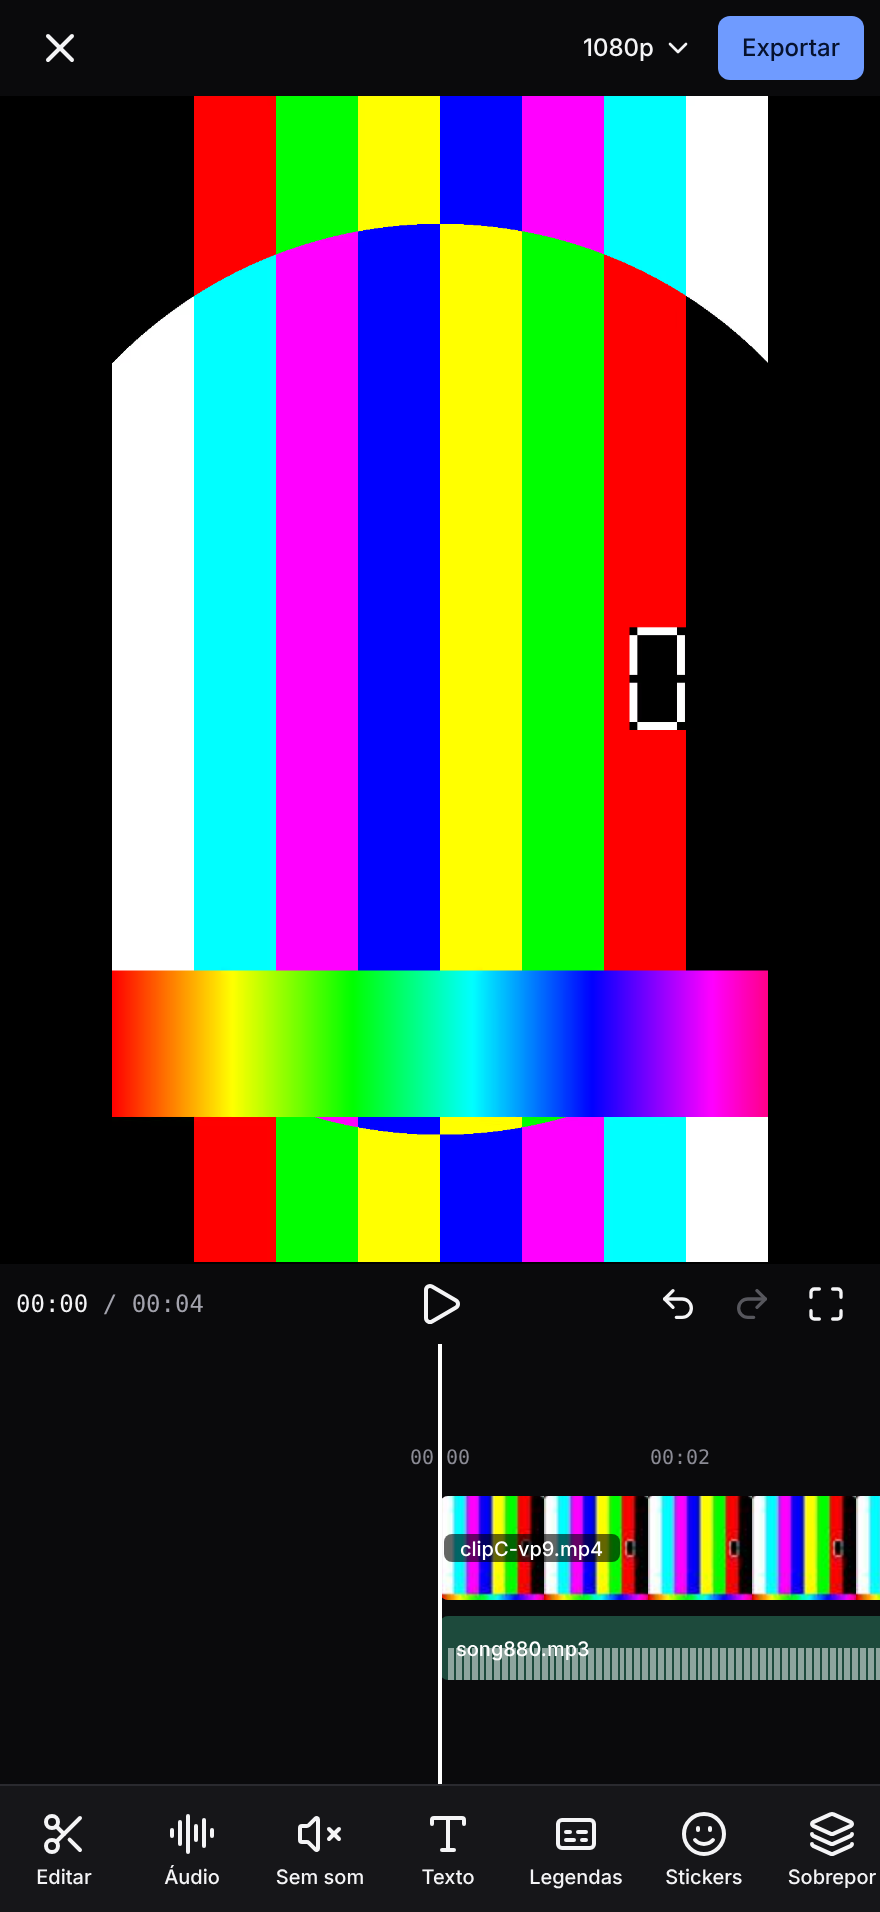
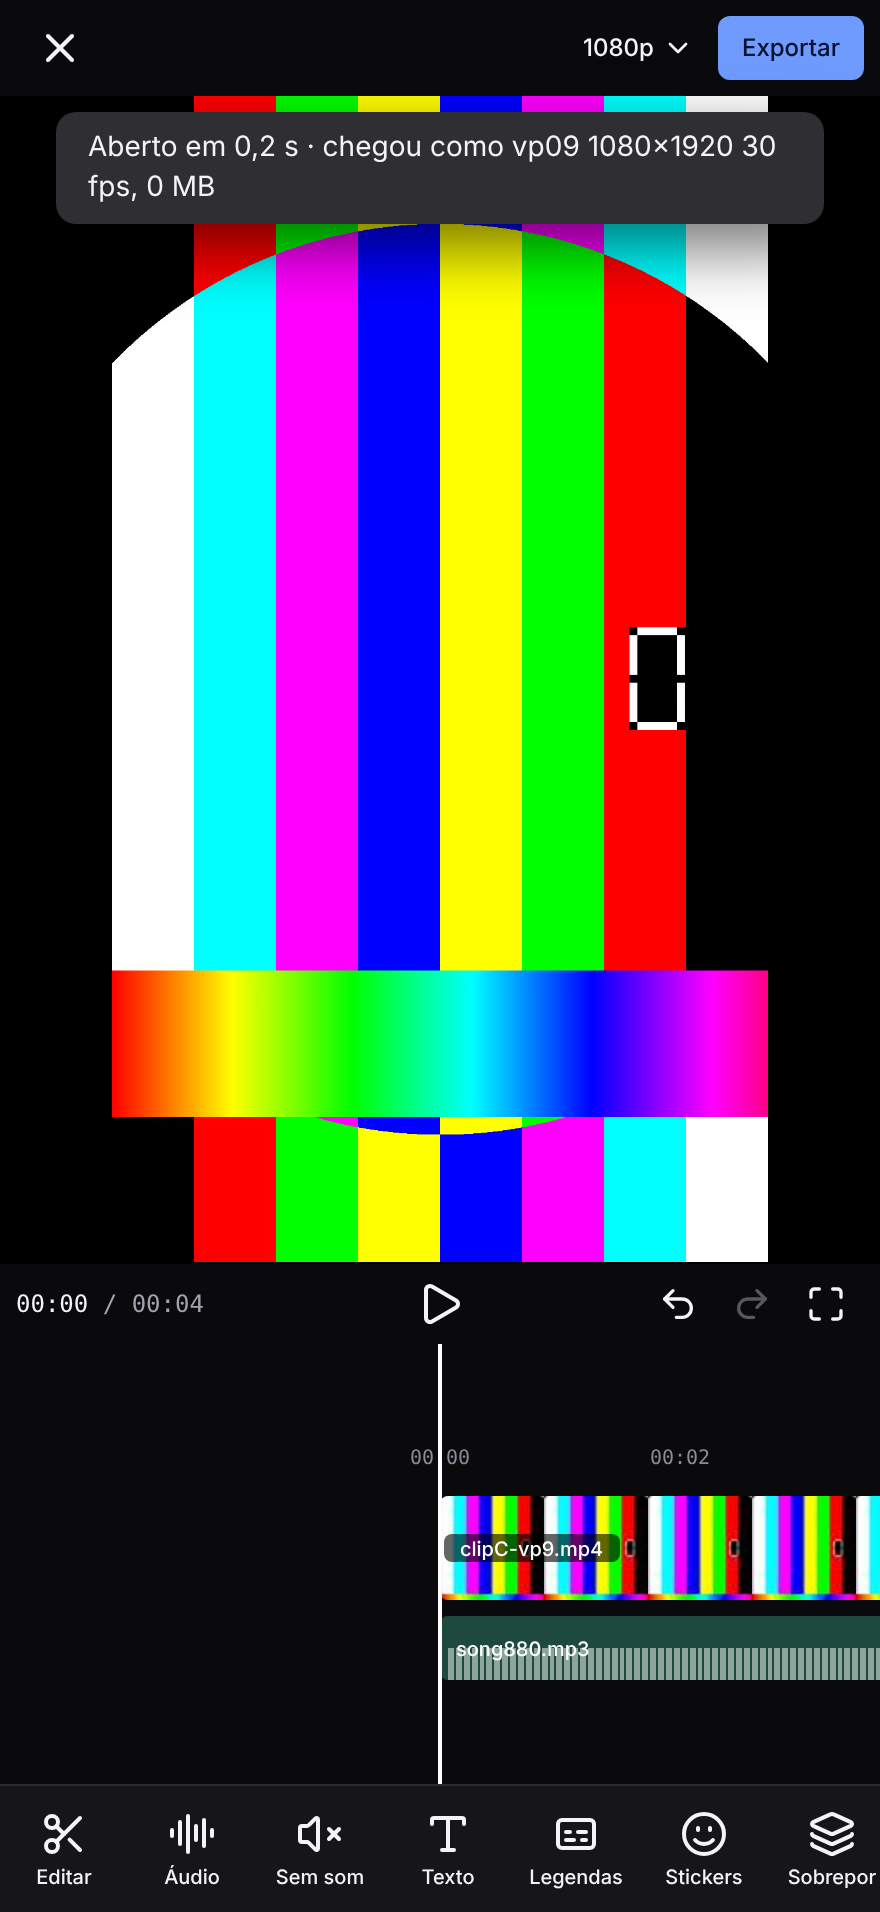
Fix black preview when reopening a saved project on iPhone
Files read back from OPFS had no type, so their blob URLs had an empty
content type, which Safari will not play. They now get the type they
were imported with. A video that fails to load shows a message on the
preview instead of a silent black frame.

Claude-Session: https://claude.ai/code/session_0171u1mNBnwSWvSmcMh16wpa

Changed region(s): [[0.0614, 0.0309, 0.9511, 0.1543]]

diff --git a/app/src/editor/player.ts b/app/src/editor/player.ts
@@ -49,6 +49,8 @@ export class Player {
     audio.attachVideo(video);
     video.addEventListener("seeked", this.onSeeked);
     video.addEventListener("loadedmetadata", this.onMeta);
+    video.addEventListener("error", this.onVideoError);
+    video.addEventListener("loadeddata", this.onVideoOk);
   }
 
   dispose() {
@@ -57,6 +59,8 @@ export class Player {
     this.release();
     this.video.removeEventListener("seeked", this.onSeeked);
     this.video.removeEventListener("loadedmetadata", this.onMeta);
+    this.video.removeEventListener("error", this.onVideoError);
+    this.video.removeEventListener("loadeddata", this.onVideoOk);
     clearTimeout(this.seekTimer);
     for (const u of this.urls.values()) URL.revokeObjectURL(u);
     for (const b of this.images.values()) b.close();
@@ -241,6 +245,16 @@ export class Player {
     drawFrame(this.canvas.getContext("2d")!, frameBgOf(d), containDraw(bmp, bmp.width, bmp.height));
     this.show("image");
   }
+
+  // Tells the screen when a video can't be shown, instead of a silent black frame.
+  onMediaError: ((message: string | null) => void) | null = null;
+  private onVideoError = () => {
+    if (!this.video.getAttribute("src")) return; // released on purpose
+    const e = this.video.error;
+    const why = e?.code === 4 ? "formato não suportado" : e?.code === 3 ? "erro ao decodificar" : e?.code === 2 ? "erro ao ler o arquivo" : "erro desconhecido";
+    this.onMediaError?.(`Não foi possível mostrar este vídeo (${why}${e?.message ? `: ${e.message}` : ""}).`);
+  };
+  private onVideoOk = () => this.onMediaError?.(null);
 
   // Safari ignores a seek made before the file's metadata has loaded, and
   // then never fires "seeked": the preview stayed black. Seeks wait for it.

diff --git a/app/src/screens/Editor.tsx b/app/src/screens/Editor.tsx
@@ -133,6 +133,7 @@ export function Editor({ projectId }: { projectId: Id }) {
   const [fullscreen, setFullscreen] = useState(false);
   const [importing, setImporting] = useState<ImportProgress | null>(null);
   const [missing, setMissing] = useState<Set<Id>>(new Set());
+  const [mediaError, setMediaError] = useState<string | null>(null);
   const [exportOptions, setExportOptions] = useState<ExportOptions>(() => loadExportOptions(projectId));
 
   const doc = useEditor((s) => s.draft ?? s.doc);
@@ -175,6 +176,7 @@ export function Editor({ projectId }: { projectId: Id }) {
     if (state !== "ready" || !videoRef.current || !canvasRef.current || !fxCanvasRef.current || !dipRef.current || !bgCanvasRef.current) return;
     const p = new Player(videoRef.current, canvasRef.current, fxCanvasRef.current, dipRef.current, bgCanvasRef.current);
     player.current = p;
+    p.onMediaError = setMediaError;
     void p.showAt(useEditor.getState().playheadUs);
     // repaint the frame under the playhead whenever it or the doc changes
     let queued = false;
@@ -502,6 +504,11 @@ export function Editor({ projectId }: { projectId: Id }) {
             Guardando {copying.size > 1 ? `${copying.size} vídeos` : "vídeo"} no app…{" "}
             {Math.round(([...copying.values()].reduce((a, b) => a + b, 0) / copying.size) * 100)}%
           </span>
+        )}
+        {mediaError && (
+          <p role="alert" className="absolute inset-x-6 top-1/2 -translate-y-1/2 rounded-md bg-surface-2/95 p-3 text-center text-sm">
+            {mediaError}
+          </p>
         )}
         {saveState === "error" && (
           <span role="alert" className="absolute left-2 top-2 rounded-sm bg-danger px-2 py-1 text-xs text-on-danger">

diff --git a/app/src/media/import.ts b/app/src/media/import.ts
@@ -45,7 +45,36 @@ export async function assetFile(asset: AssetRow): Promise<File | null> {
   const inMemory = pending.get(asset.id);
   if (inMemory) return inMemory;
   if (asset.status !== "ready" && !copied.has(asset.id)) return null;
-  return readFile(asset.opfsPath);
+  const stored = await readFile(asset.opfsPath);
+  return stored && withType(stored, asset);
+}
+
+const MIME_BY_EXT: Record<string, string> = {
+  mov: "video/quicktime",
+  mp4: "video/mp4",
+  m4v: "video/x-m4v",
+  webm: "video/webm",
+  jpg: "image/jpeg",
+  jpeg: "image/jpeg",
+  png: "image/png",
+  heic: "image/heic",
+  webp: "image/webp",
+  mp3: "audio/mpeg",
+  m4a: "audio/mp4",
+  aac: "audio/aac",
+  wav: "audio/wav",
+};
+
+// Files read back from OPFS have no type (our paths have no extension), and
+// Safari will not play a video from a blob URL without one: the preview of a
+// reopened project stayed black. Give the file back the type it came with.
+function withType(file: File, asset: AssetRow): File {
+  if (file.type) return file;
+  const ext = asset.name.split(".").pop()?.toLowerCase() ?? "";
+  const type = asset.mime && asset.mime !== "application/octet-stream" ? asset.mime : (MIME_BY_EXT[ext] ?? "");
+  if (!type) return file;
+  // slice() makes a typed view of the same bytes, nothing is copied
+  return new File([file.slice(0, file.size, type)], asset.name, { type, lastModified: file.lastModified });
 }
 
 function kindOf(file: File): AssetKind | null {

diff --git a/app/index.html b/app/index.html
@@ -5,6 +5,7 @@
     <meta name="viewport" content="width=device-width, initial-scale=1, viewport-fit=cover" />
     <meta name="theme-color" content="#0a0a0c" />
     <meta name="apple-mobile-web-app-capable" content="yes" />
+    <meta name="mobile-web-app-capable" content="yes" />
     <meta name="apple-mobile-web-app-status-bar-style" content="black-translucent" />
     <link rel="icon" href="./favicon.png" />
     <link rel="apple-touch-icon" href="./apple-touch-icon.png" />

diff --git a/replica/build-log.md b/replica/build-log.md
@@ -48,6 +48,15 @@ Conclusion: a web app cannot skip this conversion from the photo library; the
 Files app ("Escolher Arquivos") is the remaining route, and a native wrapper
 is the only full fix. The test buttons were removed.
 
+**Bug from the iPhone (2026-10-18): a reopened project showed a black preview
+and felt stuck.** Every earlier iPhone test edited a freshly picked file, kept
+in memory. A reopened project reads the copy saved in OPFS, and that File has
+no type (the stored path has no extension), so the blob URL had an empty
+content type; Safari will not play that, Chromium sniffs it (which is why the
+browser checks missed it). Fix: files read back from OPFS get their original
+type again (a typed slice, no copy), and a video that fails to load now shows
+a message on the preview instead of staying black.
+
 | ID | date | status | missing | harder than expected |
 | --- | --- | --- | --- | --- |
 | shell | 2026-10-17 | done | — | — |
